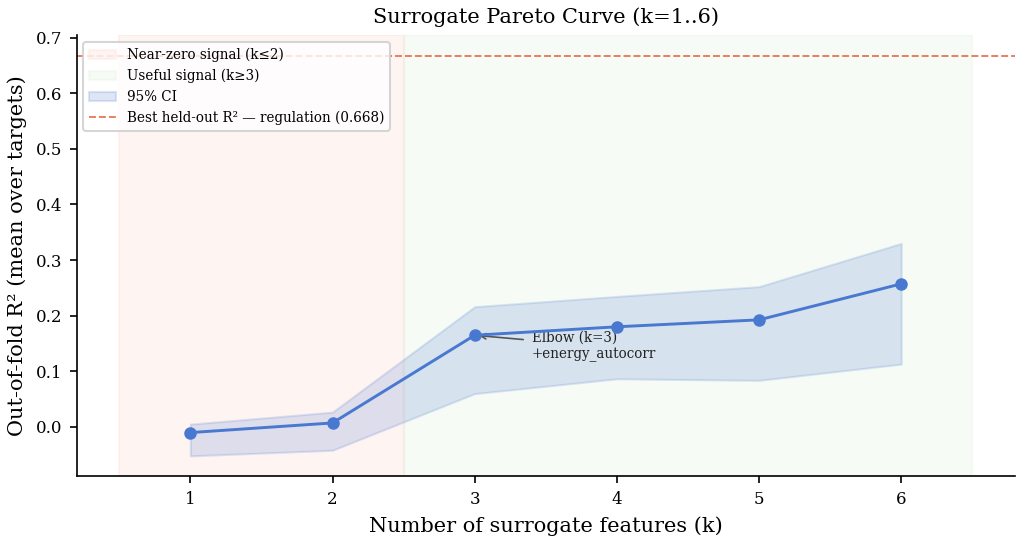
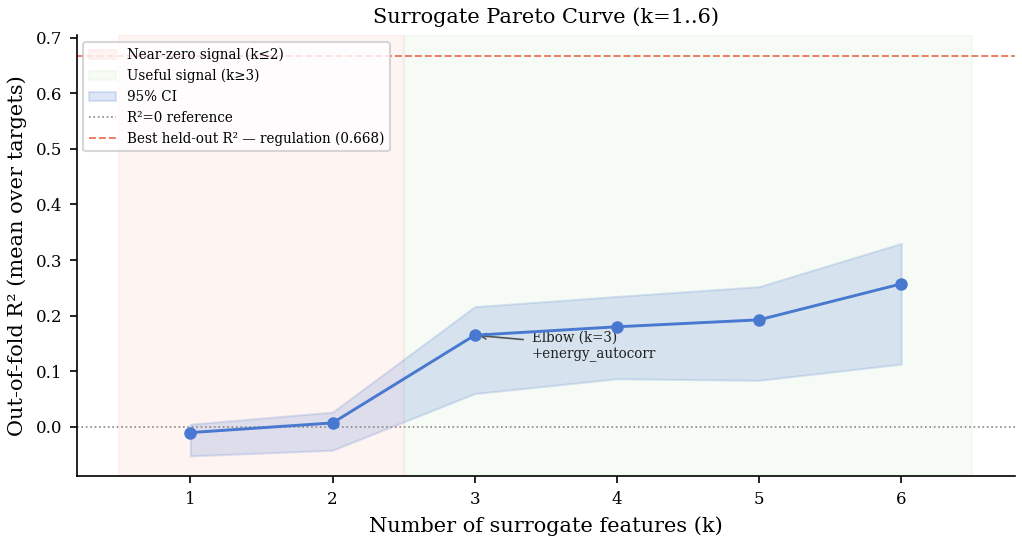
fix: address CodeRabbit + Codex review findings
plot_reduction_figures.py:
- NaN guard in PCA standardization: replace sd[sd==0] with
  sd[~np.isfinite(sd)|(sd==0)] so ddof=1 NaNs (n_rows==1) are caught
- Guard metrics.index("alive_auc") with explicit membership check and
  descriptive ValueError before the index call
- Fix hard-coded r2[2] elbow lookup to next(pt for pt in curve if pt["k"]==3)
  so it is robust to sparse or reordered pareto_curve entries
- Add R²=0 axhline to plot_surrogate_pareto for visual parity with Fig 2
- Validate stability_scores_enet list lengths before matrix fill

test_plot_reduction_figures.py:
- Tighten test_reference_line_present: assert >= 2 h-lines (R²=0 + reg
  reference) and verify the regulation_score y-value within 1e-9

All 123 tests pass; ruff clean.

Changed region(s): [[0.0607, 0.2063, 0.3943, 0.2947]]

diff --git a/scripts/plot_reduction_figures.py b/scripts/plot_reduction_figures.py
@@ -212,9 +212,11 @@ def plot_surrogate_pareto(ax: plt.Axes, surr_data: dict) -> None:
 
     ax.plot(ks, r2, "o-", color="#4878CF", linewidth=1.4, markersize=5, zorder=5)
     ax.fill_between(ks, lo, hi, alpha=0.18, color="#4878CF", label="95% CI")
+    ax.axhline(0, color="#888888", linestyle=":", linewidth=0.8, label="R²=0 reference")
 
-    # Elbow annotation at k=3
-    elbow_r2 = r2[2]  # index 2 → k=3
+    # Elbow annotation at k=3 — look up by k value, not list index.
+    elbow_pt = next((pt for pt in curve if pt["k"] == 3), None)
+    elbow_r2 = elbow_pt["r2_mean"] if elbow_pt is not None else r2[-1]
     ax.annotate(
         "Elbow (k=3)\n+energy_autocorr",
         (3, elbow_r2),
@@ -253,10 +255,12 @@ def plot_pca_biplot(ax: plt.Axes, crit_data: dict) -> None:
     conditions = crit_data["conditions_used"]
     metrics = crit_data["performance_metrics"]
 
-    # Column-wise standardization (z-score) before PCA
+    # Column-wise standardization (z-score) before PCA.
+    # ddof=1 produces NaN when n_rows==1; guard both zero and NaN so PCA
+    # receives finite input even in degenerate synthetic-data scenarios.
     mu = perf_matrix.mean(axis=0)
     sd = perf_matrix.std(axis=0, ddof=1)
-    sd[sd == 0] = 1.0
+    sd[~np.isfinite(sd) | (sd == 0)] = 1.0
     perf_std = (perf_matrix - mu) / sd
 
     pca = PCA(n_components=2, random_state=42)
@@ -264,6 +268,10 @@ def plot_pca_biplot(ax: plt.Axes, crit_data: dict) -> None:
 
     var1, var2 = pca.explained_variance_ratio_[:2] * 100
 
+    if "alive_auc" not in metrics:
+        raise ValueError(
+            f"'alive_auc' not found in performance_metrics; available: {metrics}"
+        )
     alive_auc_idx = metrics.index("alive_auc")
     color_vals = perf_matrix[:, alive_auc_idx]
     norm = mcolors.Normalize(vmin=color_vals.min(), vmax=color_vals.max())
@@ -342,6 +350,14 @@ def plot_stability_heatmap(ax: plt.Axes, crit_data: dict) -> None:
     criteria = crit_data["criteria"]
     stability_enet = crit_data["stability_scores_enet"]
     metrics = list(stability_enet.keys())
+
+    # Validate list lengths before indexing to produce an actionable error.
+    for metric, scores in stability_enet.items():
+        if len(scores) != len(criteria):
+            raise ValueError(
+                f"stability_scores_enet['{metric}'] has {len(scores)} entries, "
+                f"expected {len(criteria)} (one per criterion)"
+            )
 
     # Build matrix: rows=criteria, cols=metrics
     mat = np.zeros((len(criteria), len(metrics)))

diff --git a/tests_python/test_plot_reduction_figures.py b/tests_python/test_plot_reduction_figures.py
@@ -188,12 +188,21 @@ class TestFig3SurrogatePareto:
         assert _png_width(out) > 200
 
     def test_reference_line_present(self) -> None:
-        """regulation_score held-out R² reference line must be present."""
+        """Both the R²=0 baseline and the regulation_score reference line must be present."""
         fig, ax = plt.subplots()
-        plot_surrogate_pareto(ax, _make_surr_data())
-        # At least 2 horizontal lines expected (R²=0 baseline + reg reference)
+        surr_data = _make_surr_data()
+        plot_surrogate_pareto(ax, surr_data)
+        # Horizontal lines are axhline calls; each produces a Line2D with xdata = [0, 1].
         h_lines = [ln for ln in ax.get_lines() if len(ln.get_xdata()) == 2]
-        assert len(h_lines) >= 1
+        assert len(h_lines) >= 2, (
+            f"Expected ≥2 h-lines (R²=0 + regulation ref), got {len(h_lines)}"
+        )
+        # Verify one line sits at the regulation_score held-out R² value.
+        reg_r2 = surr_data["held_out_r2"]["regulation_score"]
+        y_values = [float(ln.get_ydata()[0]) for ln in h_lines]
+        assert any(abs(y - reg_r2) < 1e-9 for y in y_values), (
+            f"No h-line at regulation_score R²={reg_r2}; found y-values: {y_values}"
+        )
         plt.close(fig)
 
 
